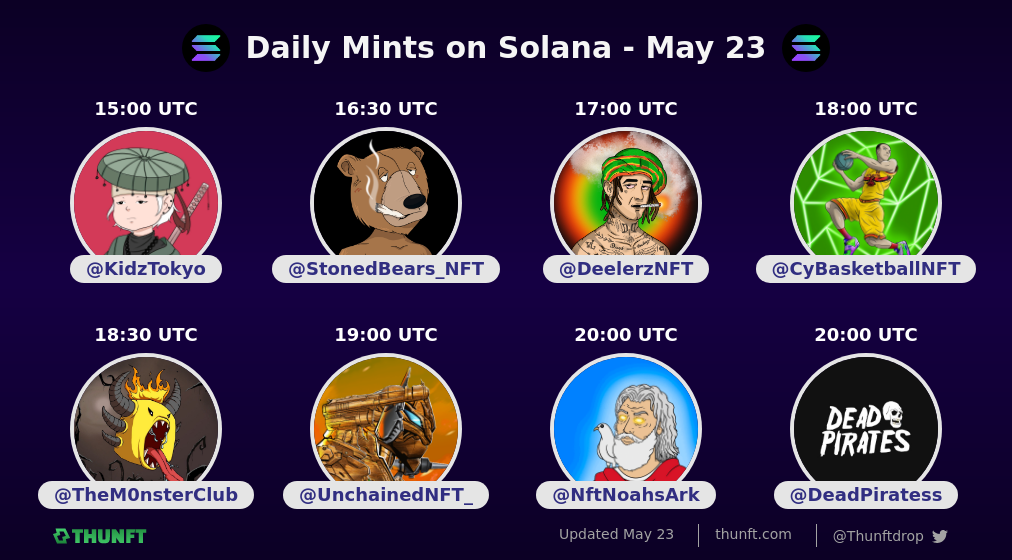
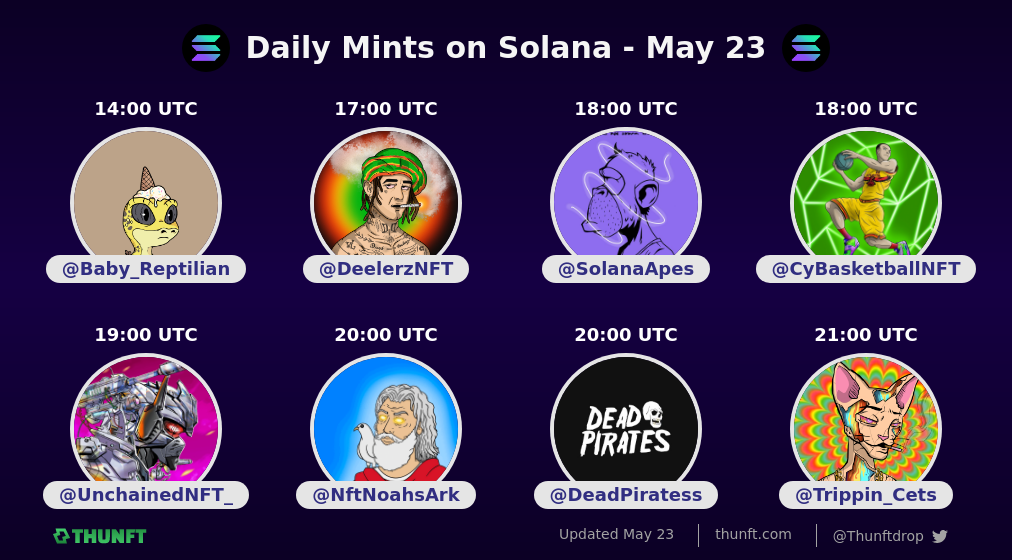
[bot] Create Image & Tweet of Daily Mint

diff --git a/data/DailyMint/tweets/23-05-2022.md b/data/DailyMint/tweets/23-05-2022.md
@@ -2,14 +2,14 @@ Daily Mints in #SolanaNFT 🚀
 
 ⏰ Mint May 23
 
-15UTC @KidzTokyo
-16:30UTC @StonedBears_NFT
+14UTC @Baby_Reptilian
 17UTC @DeelerzNFT
+18UTC @SolanaApes
 18UTC @CyBasketballNFT
-18:30UTC @TheM0nsterClub
 19UTC @UnchainedNFT_
 20UTC @NftNoahsArk
 20UTC @DeadPiratess
+21UTC @Trippin_Cets
 
 🔗 thunft.com/daily-mint/solana
 
